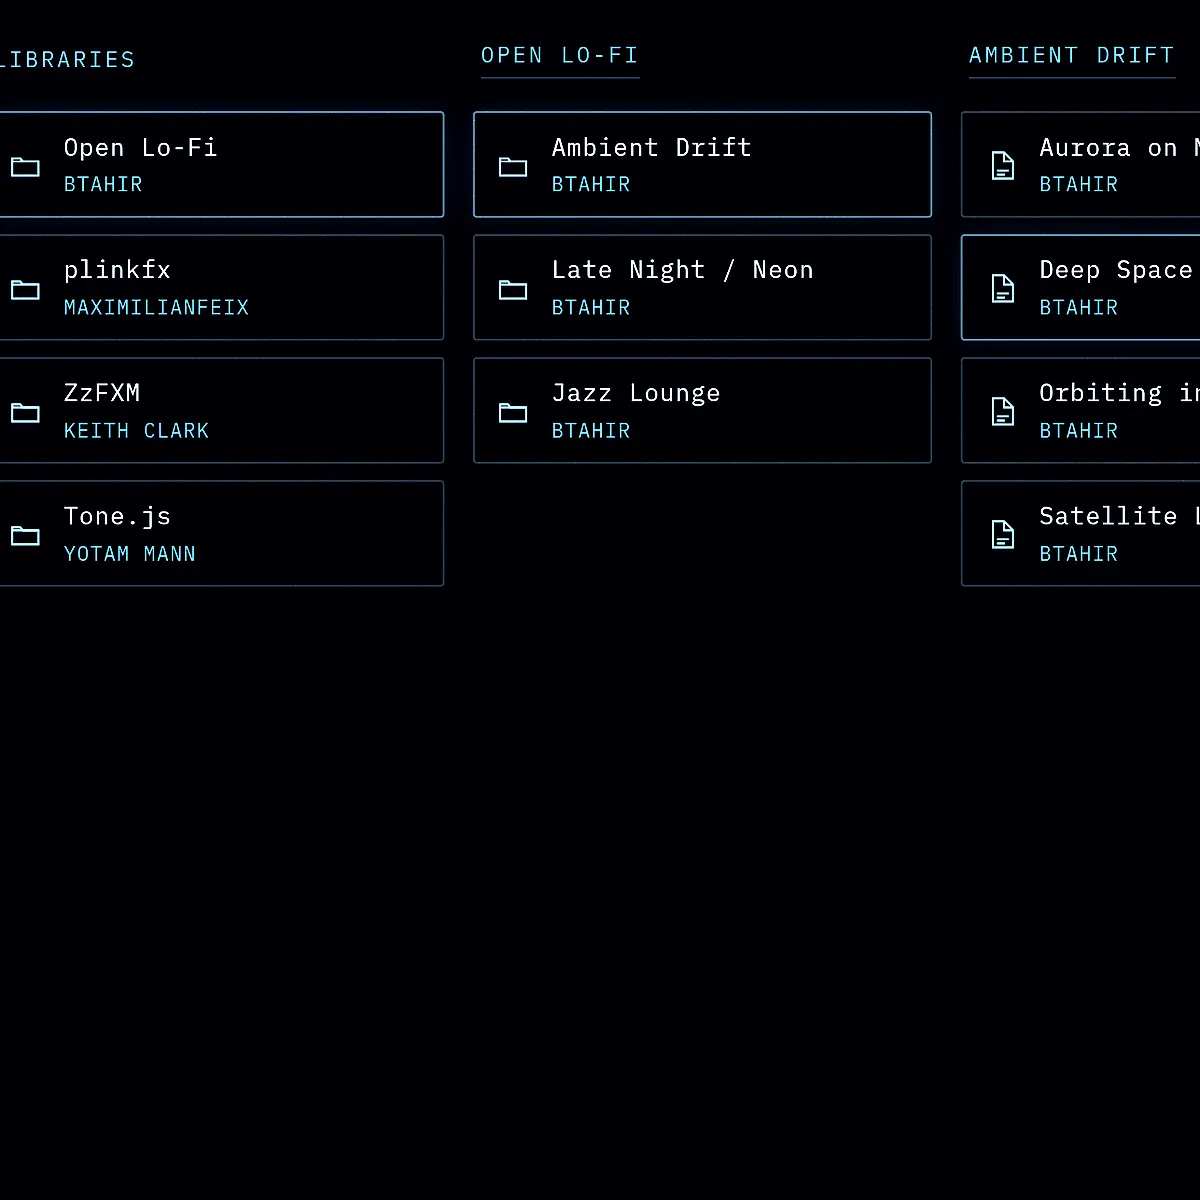
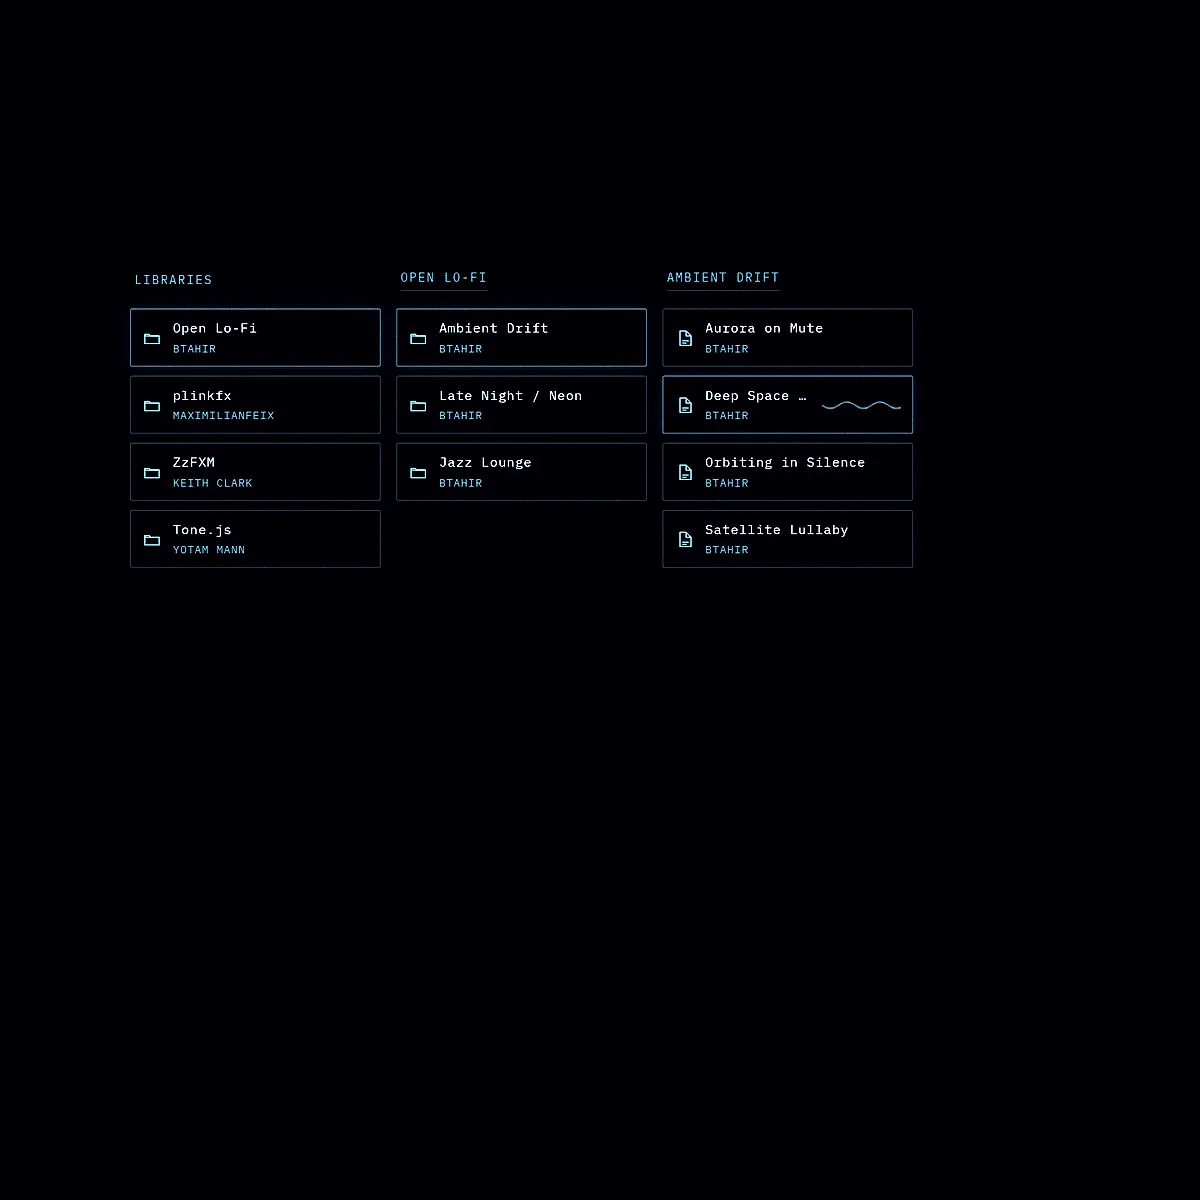
sound browser: recrop the homepage still off the tile text
Scale the posed columns into the middle of the square so Idea 10
and the title/blurb sit on empty field, then recapture avif/webp/jpg.

diff --git a/src/specimens/sound-browser.js b/src/specimens/sound-browser.js
@@ -44,7 +44,11 @@ export function mount(stage, { still, peek } = {}) {
   const wave = dock.querySelector('.sb-wave')
   const wctx = wave.getContext('2d')
 
-  const cam = preview ? { x: -8, y: 22, s: 1.08, vx: 0, vy: 0 } : { x: 18, y: 18, s: 1, vx: 0, vy: 0 }
+  const cam = still
+    ? { x: 78, y: 156, s: 0.66, vx: 0, vy: 0 }
+    : peek
+      ? { x: 28, y: 72, s: 0.5, vx: 0, vy: 0 }
+      : { x: 18, y: 18, s: 1, vx: 0, vy: 0 }
   let stack = preview ? ['open-lofi', 'ambient-lofi'] : []
   let playing = preview ? findNode('ol-deep-space-loop') : null
   let paused = false

diff --git a/src/experiments.js b/src/experiments.js
@@ -164,7 +164,7 @@ export const experiments = [
     hint: '',
     full: true,
     stillWait: 720,
-    crop: { x: 0.38, y: 0.46, z: 1.12 },
+    crop: { x: 0.5, y: 0.46, z: 1 },
   },
 ]
 
